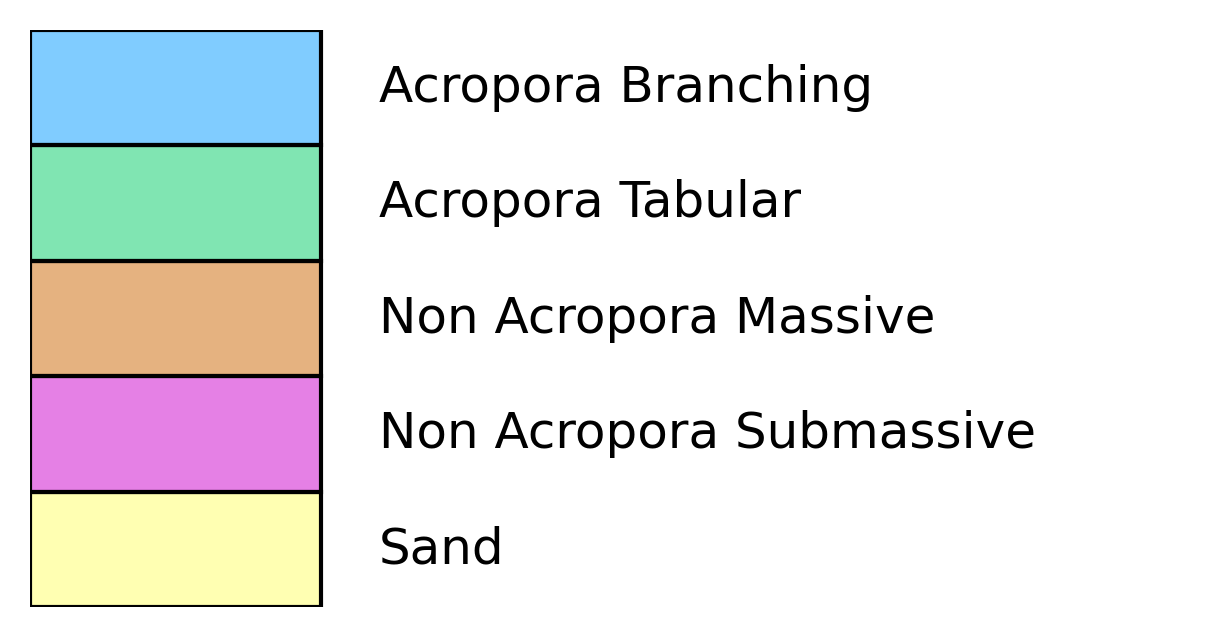
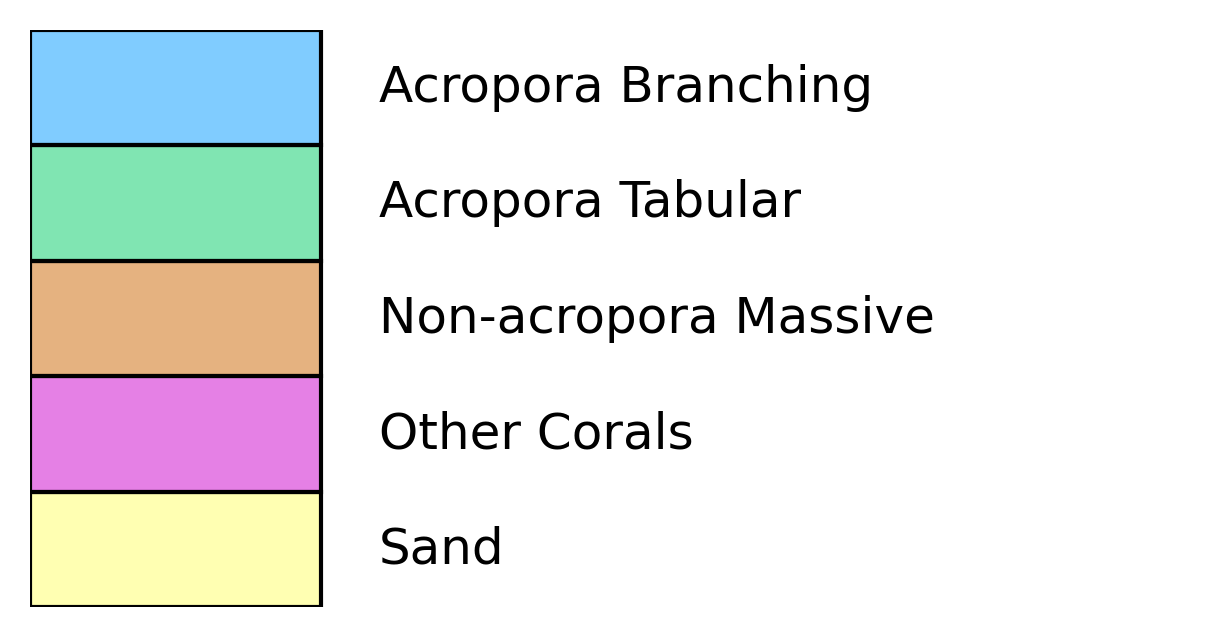
Update readme

Changed region(s): [[0.311, 0.6264, 0.8707, 0.7159], [0.4043, 0.4772, 0.7463, 0.5369]]

diff --git a/src/training/model_card_generator.py b/src/training/model_card_generator.py
@@ -95,14 +95,16 @@ def format_transforms_to_markdown(transforms_dict):
 def format_training_results_to_markdown(trainer_state: dict) -> str:
     training_logs = trainer_state.get("log_history", [])
 
-    markdown_table = "Epoch | Validation Loss | Accuracy | F1 Macro | F1 Micro | Learning Rate\n"
+    markdown_table = "Epoch | Validation Loss | Learning Rate\n"
 
-    markdown_table += "--- | --- | --- | --- | --- | ---\n"
+    markdown_table += "--- | --- | ---\n"
 
     
     seen_epochs = set()
 
     for log in training_logs:
+        if "eval_loss" not in log: continue
+
         epoch = log.get("epoch", "N/A")
         epoch = int(epoch)  # Ensure epoch is displayed as an integer
         if epoch in seen_epochs:
@@ -129,8 +131,8 @@ def format_hyperparameters_to_markdown(config, all_results):
     markdown += f"- **Eval Batch Size**: {config.get('eval_batch_size', 'Not specified')}\n"
     markdown += f"- **Optimizer**: {config.get('optimizer', {}).get('type', 'Not specified')}\n"
     markdown += f"- **LR Scheduler Type**: {config.get('lr_scheduler_type', {}).get('type', 'Not specified')} with a patience of {config.get('patience_lr_scheduler', 'Not specified')} epochs and a factor of {config.get('factor_lr_scheduler', 'Not specified')}\n"
-    markdown += f"- **Freeze Encoder**: {'Yes' if config.get('freeze_encoder', True) else 'No'}\n"
-    markdown += f"- **Data Augmentation**: {'Yes' if config.get('data_augmentation', True) else 'No'}\n"
+    markdown += f"- **Freeze Encoder**: {'Yes' if config.get('freeze_encoder', False) else 'No'}\n"
+    markdown += f"- **Data Augmentation**: {'Yes' if config.get('data_augmentation', False) else 'No'}\n"
     return markdown
 
 

diff --git a/inference.py b/inference.py
@@ -25,7 +25,7 @@ def parse_args() -> Namespace:
     parser.add_argument("-pcsv", "--path_csv_file", default=None, help="Path to the csv file")
 
     # Model arguments.
-    parser.add_argument("-psm", "--path_segmentation_model", default="models/SegForCoral-2025_05_12_76513-bs16_refine_with_sam", help="Path to semgentation model, currently only in local.")
+    parser.add_argument("-psm", "--path_segmentation_model", default="models/SegForCoralBig-2025_05_20_27648-bs16_refine_b2", help="Path to semgentation model, currently only in local.")
     parser.add_argument("-pgeo", "--path_geojson", type=list, default=["./config/emprise_lagoon.geojson"], help="Path to geojson to crop ortho inside area. We can use multiple geojson")
     
     parser.add_argument("-ho", "--horizontal_overlap", type=float, default=0.5, help="Horizontal overlap between tiles.")

diff --git a/src/training/hugging_model_manager.py b/src/training/hugging_model_manager.py
@@ -32,8 +32,9 @@ class ModelManager():
         elapsed_second_in_day = now.hour * 3600 + now.minute * 60 + now.second
         today = f'{date.today().strftime("%Y_%m_%d")}_{elapsed_second_in_day}'
         training_type = "_coarse" if self.training_step == TrainingStep.COARSE else "_refine"
+        size = self.cp.base_model_name.split("-")[-1]
 
-        self.model_name = f"{self.cp.model_name}-{today}-bs{self.cp.batch_size}{training_type}"[0:96] # Add a limit for huggingface
+        self.model_name = f"{self.cp.model_name}-{size}-{today}-bs{self.cp.batch_size}{training_type}"[0:96] # Add a limit for huggingface
         self.output_dir = Path(self.cp.path_models_checkpoints, self.model_name)
         self.output_dir.mkdir(exist_ok=True, parents=True)
         

diff --git a/generate_tiles/create_legend.py b/generate_tiles/create_legend.py
@@ -13,8 +13,8 @@ with open("color.txt", "r") as file:
 legend_data = {
     "1": "Acropora Branching", 
     "2": "Acropora Tabular",
-    "3": "Non Acropora Massive",
-    "4": "Non Acropora Submassive",
+    "3": "Non-acropora Massive",
+    "4": "Other Corals",
     "5": "Sand",
 }
 
